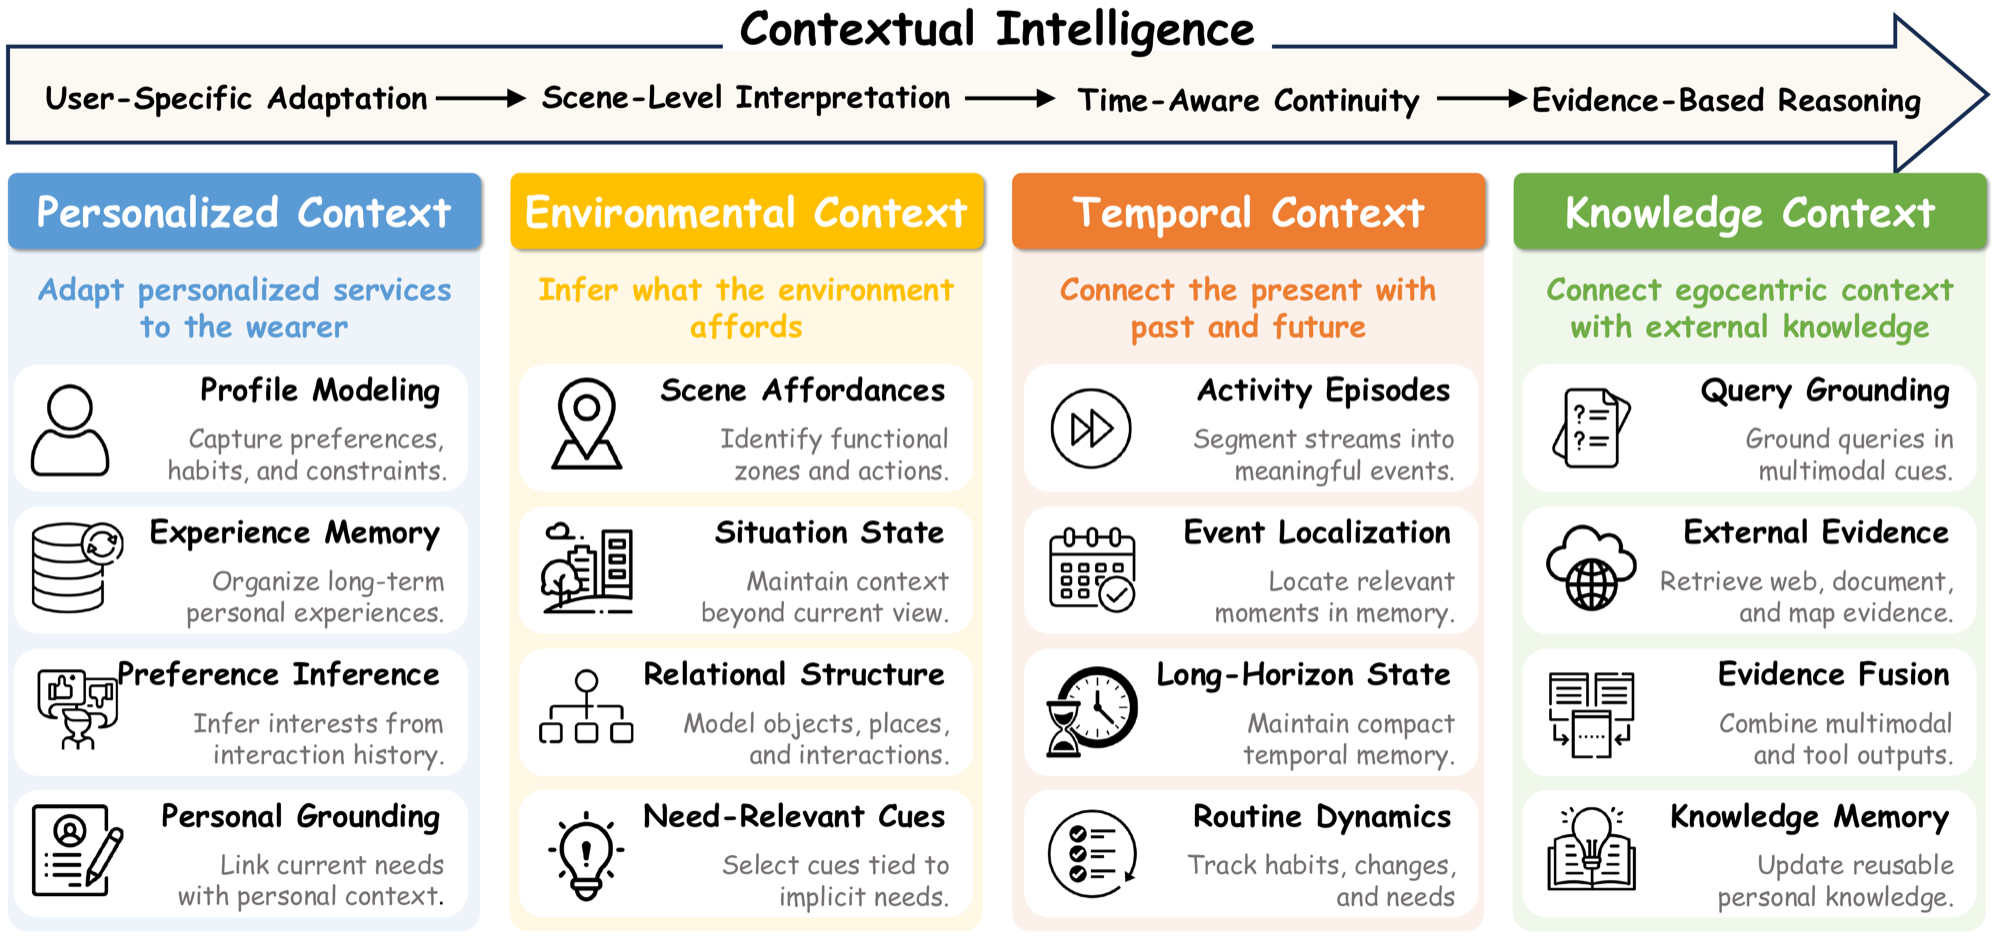
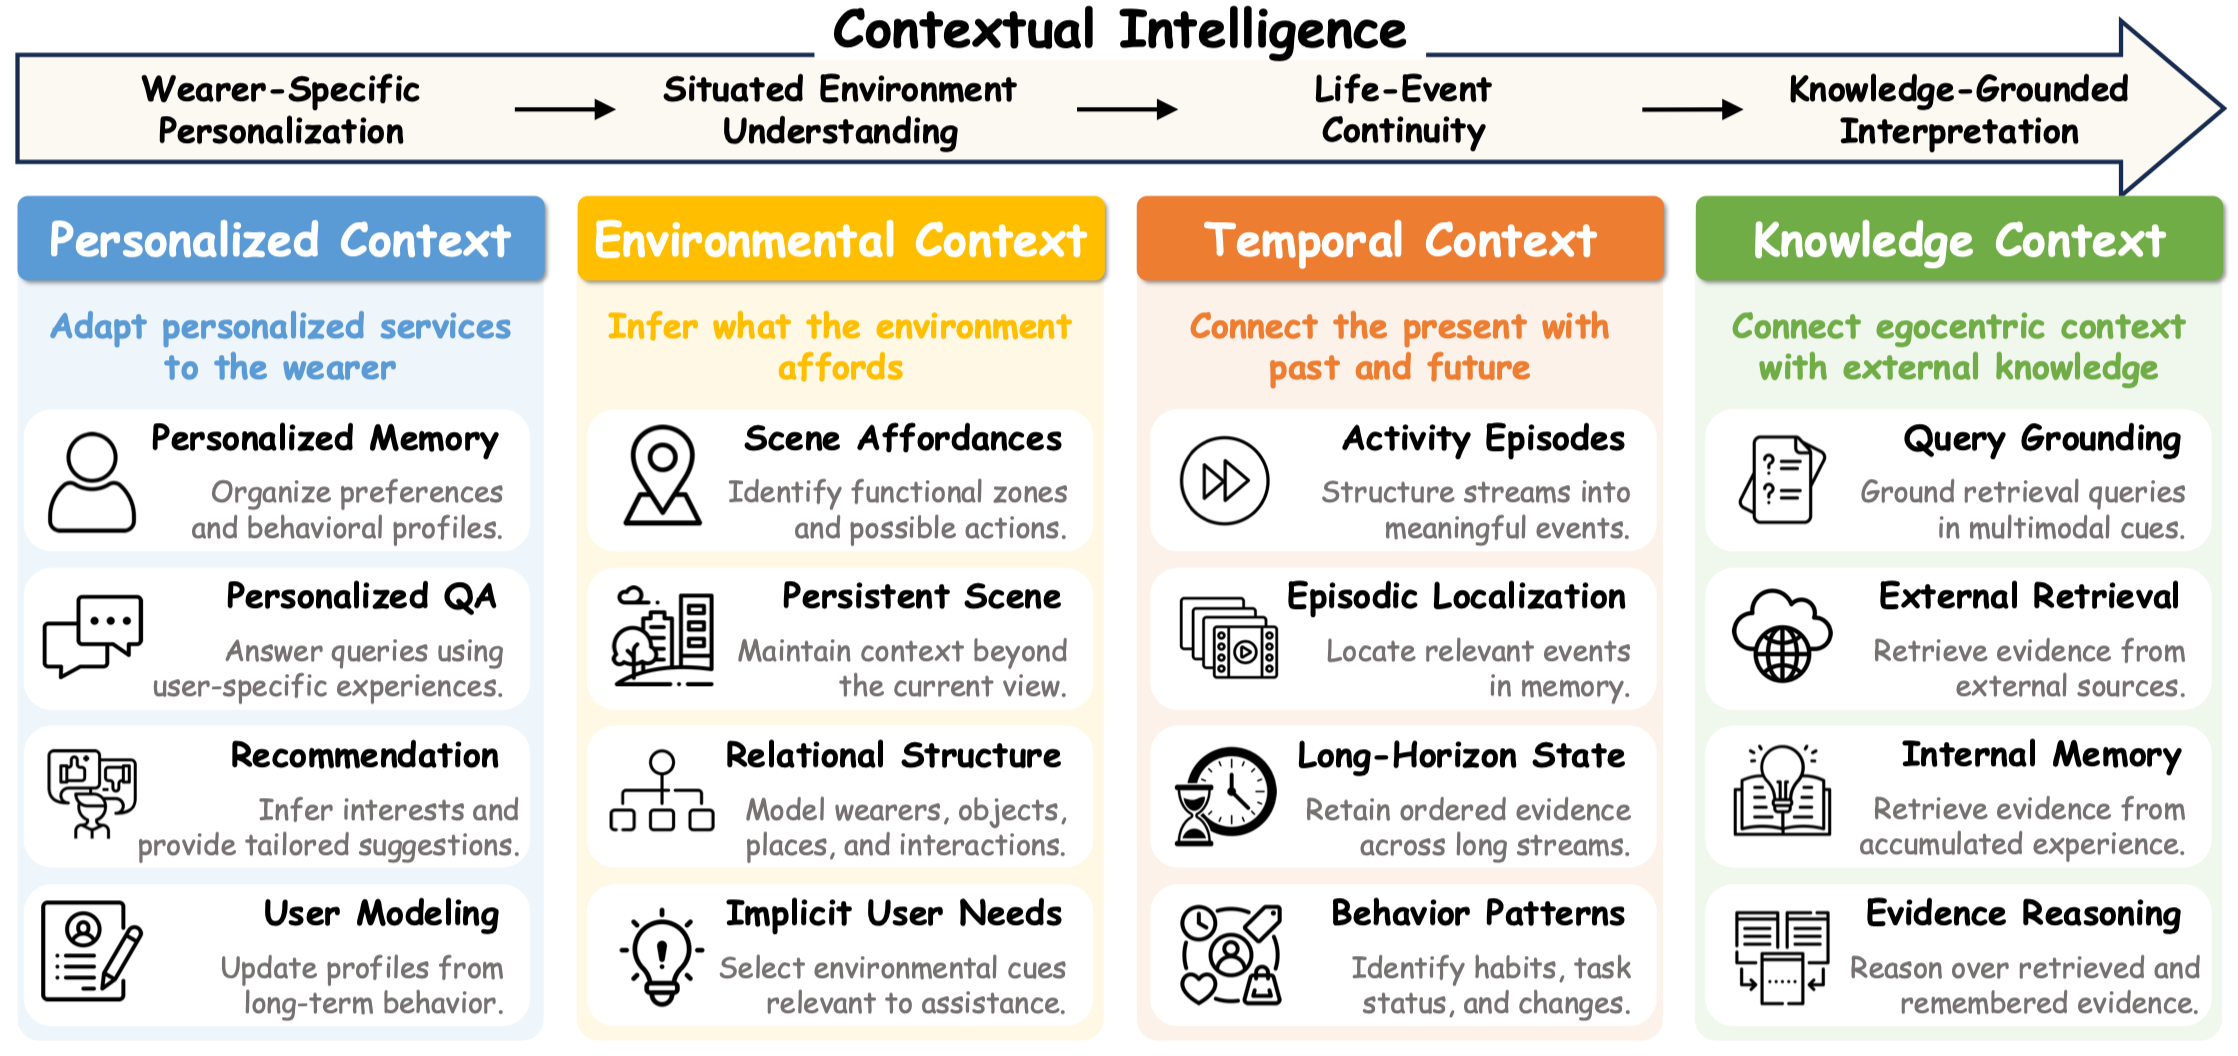
update README.md

diff --git a/README.md b/README.md
@@ -91,6 +91,8 @@ Following the survey, this list is organized around four connected layers:
 <em><b>Section figure.</b> Hardware capability stack for AI smart glasses.</em>
 </div> -->
 
+<br>
+
 The table below offers a quick comparison of representative AI smart-glasses products across sensing, inference, interaction, battery, and storage capabilities. `-` means the specification is not publicly disclosed; `AR1` refers to Qualcomm Snapdragon AR1 Gen1; `mic` and `spk` denote microphone and speaker.
 
 | Product | Release Time | Camera Resolution | Motion Stabilization | Spatial Awareness | Local Inference | Cloud AI | Audio | Display | Touch Control | Battery | Storage |
@@ -105,8 +107,8 @@ The table below offers a quick comparison of representative AI smart-glasses pro
 | [Qwen G1](https://www.mwcbarcelona.com/exhibitors/36083-qwen-glasses/products/4898-qwen-glasses-g1) | 2026.03 | 12 MP | Yes | - | AR1 + BES2800 | Qwen | 6-mic, 2-spk | No | Yes | 272 mAh | 64 GB |
 | [Huawei AI Glasses](https://consumer.huawei.com/cn/audio/ai-glasses) | 2026.04 | 12 MP | Yes | - | Self-developed Chip | PanguLM | 3-mic, 2-spk | No | Yes | 252 mAh | 64 GB |
 | [RayNeo V4](https://rayneo.cn/v4.html) | 2026.05 | 9 MP | Yes | - | AR1 + BES2800BP | Qwen | 4-mic, 2-spk | No | Yes | 250 mAh | 64 GB |
-| Snap SPECS | 2026.06 | - | Yes | Yes | Dual Snapdragon Chips | - | 6-mic, 2-spk | Binocular | Yes | - | - |
-| VITURE Helix | 2026.06 | 12 MP | - | - | - | NVIDIA XR AI | 4-mic, 2-spk | No | Yes | - | - |
+| [Snap SPECS](https://www.specs.com/smart-glasses/specs-27) | 2026.06 | - | Yes | Yes | Dual Snapdragon Chips | - | 6-mic, 2-spk | Binocular | Yes | - | - |
+| [VITURE Helix](https://www.viture.com/helix) | 2026.06 | 12 MP | - | - | - | NVIDIA XR AI | 4-mic, 2-spk | No | Yes | - | - |
 
 
 <!-- - `[IMWUT 2021]` MemX: An Attention-Aware Smart Eyewear System for Personalized Moment Auto-Capture. `System`
